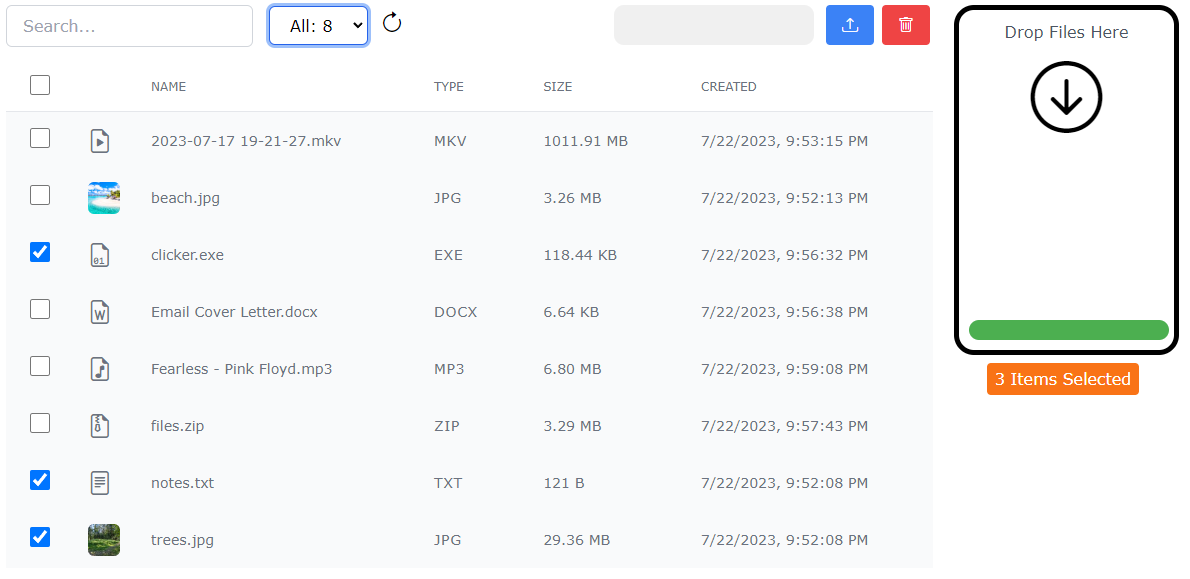
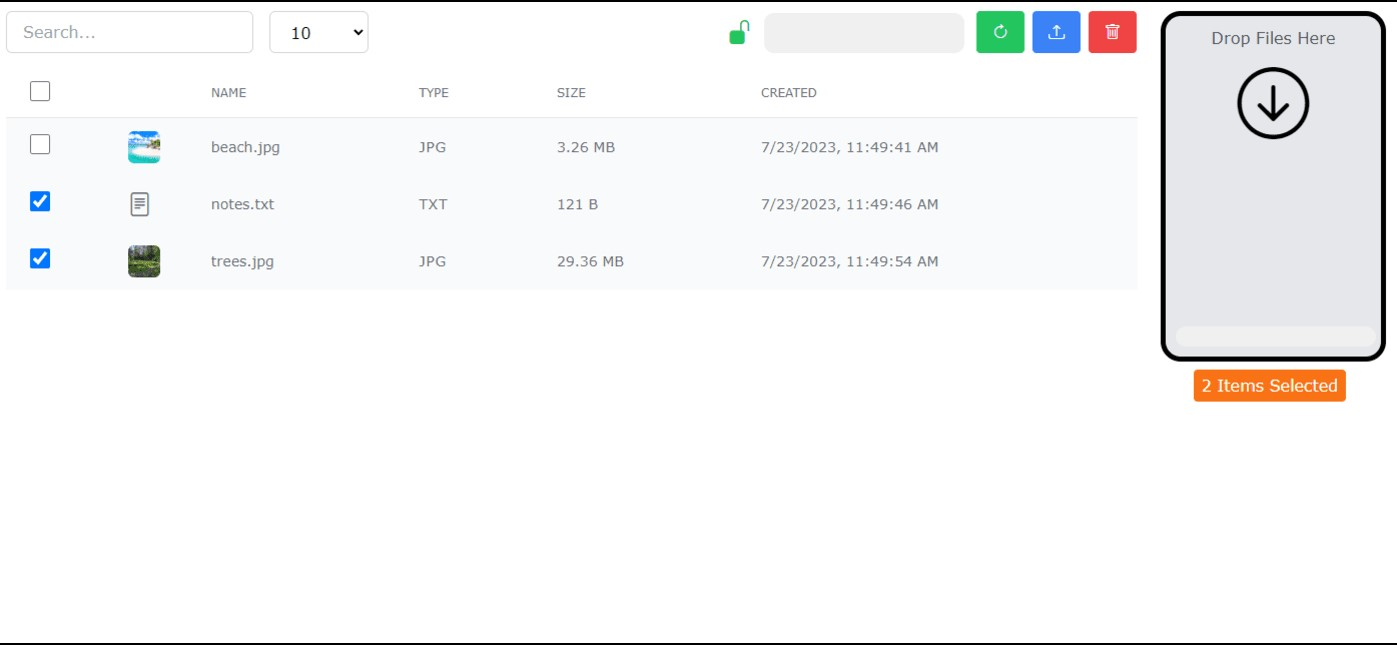
fixed loading spinner on load/authentication modal styling

diff --git a/src/App.js b/src/App.js
@@ -61,17 +61,19 @@ function App()
       return response.json();
     })
     .then(result => {
+      if (tempTbody.parentNode) tempTbody.parentNode.replaceChild(previousTbody, tempTbody);
+
       setCount(searchQuery ? result.files.length : result.count);
       setAuthenticated(true);
       setFiles(result.files);
     })
     .catch(() => {
+      if (tempTbody.parentNode) tempTbody.parentNode.replaceChild(previousTbody, tempTbody);
+
       setFiles([]);
       setAuthenticated(false);
       document.getElementById('modal').classList.remove('hidden');
     });
-
-    if (tempTbody.parentNode) tempTbody.parentNode.replaceChild(previousTbody, tempTbody);
   }
 
   function UploadFiles(event) {
@@ -195,7 +197,7 @@ function App()
   }
 
   return (
-    <div className='page'>
+    <div className='page overflow-hidden'>
       <AuthenticationModal
         server={server}
         FetchFiles={FetchFiles}
@@ -289,7 +291,7 @@ function App()
       </div>
 
       <div className="flex flex-col">
-        <div className='dropzone w-1/6 flex flex-col justify-center cursor-pointer ml-3' onClick={() => document.getElementById('fileInput').click()} onDragOver={FileDrop}>
+        <div className='dropzone w-1/6 bg-gray-200 flex flex-col justify-center cursor-pointer ml-3' onClick={() => document.getElementById('fileInput').click()} onDragOver={FileDrop}>
           <div className='text-center mb-4 text-gray-600'>Drop Files Here</div>
           
           <div className='flex items-center justify-center'>

diff --git a/src/components/auth-modal.js b/src/components/auth-modal.js
@@ -47,8 +47,8 @@ function AuthenticationModal(args)
               <i className='bi bi-arrow-right'></i>
             </button>
 
-            <div className='ml-5 mt-2 hidden' id='message'>
-              <span className='text-red-500'>Incorrect password</span>
+            <div className='ml-6 mt-2 hidden' id='message'>
+              <span className='text-red-500 font-bold'>Incorrect password</span>
             </div>
           </div>
         </div>

diff --git a/src/css/auth-modal.scss b/src/css/auth-modal.scss
@@ -4,18 +4,18 @@
   
   position: fixed;
   overflow: auto;
-  width: 100%;
   height: 100%;
+  width: 100%;
   z-index: 1;
   left: 0;
   top: 0;
 
   .modal-content {
-    background-color: #fefefe;
+    background-color: #FEFEFE;
+    border: 1px solid #888;
     margin: 15% auto;
     padding: 20px;
-    border: 1px solid #888;
-    width: 40%;
-    height: 30%;
+    width: 500px;
+    height: 280px;
   }
 }

diff --git a/README.md b/README.md
@@ -2,3 +2,4 @@
 File Hub allows you to upload your own files and download existing ones that are stored directly on the server
 
 ![](demo/app.png)
+![](demo/auth.png)
